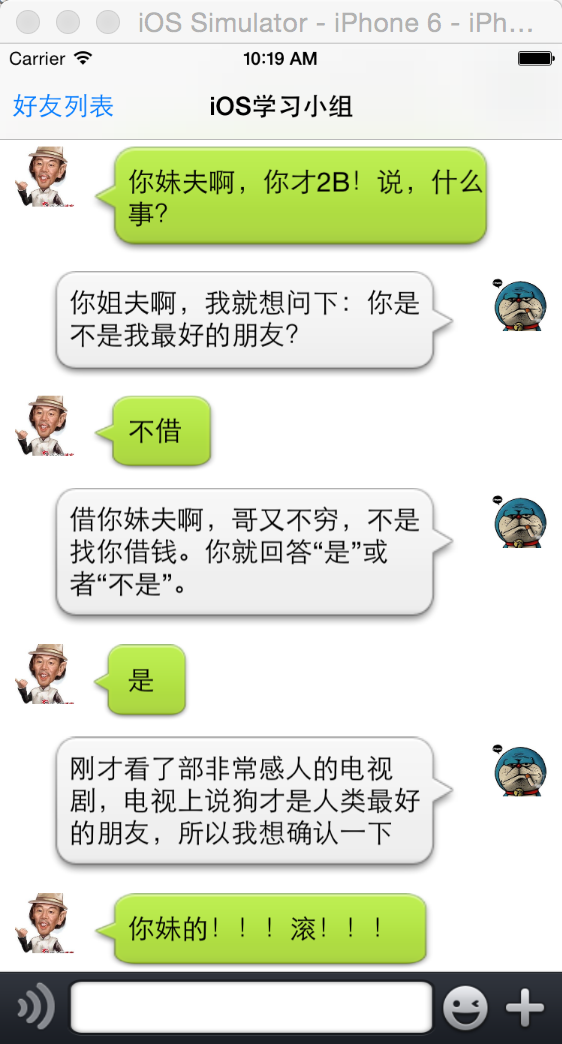
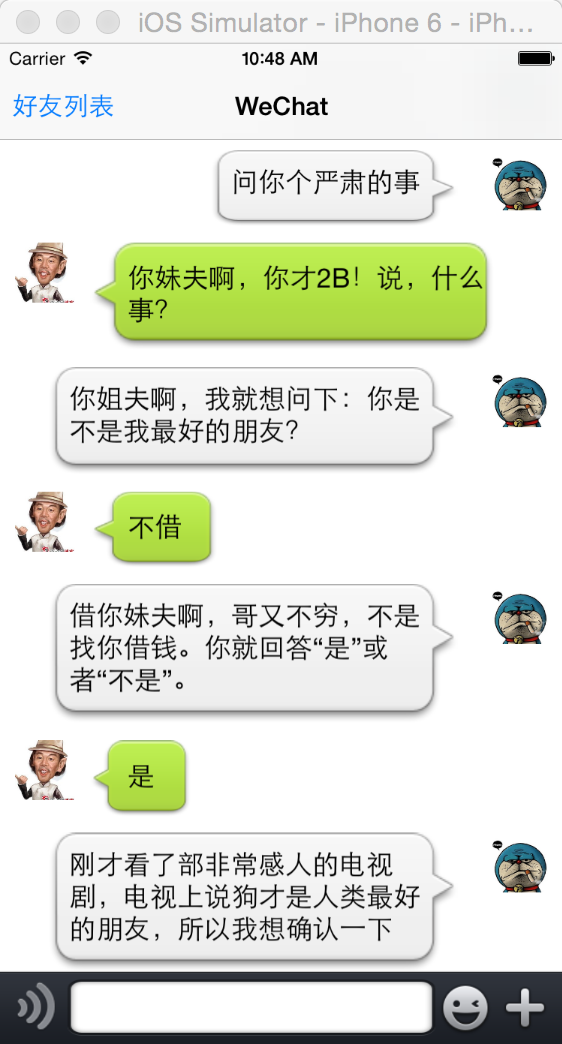
修改了小组名字

diff --git a/微信/微信/ViewController.m b/微信/微信/ViewController.m
@@ -158,7 +158,7 @@
 
 #pragma mark - nav的设置
 - (void)_setNavigation {
-    self.title = @"iOS学习小组";
+    self.title = @"WeChat";
     UIBarButtonItem *item = [[UIBarButtonItem alloc] initWithTitle:@"好友列表" style:UIBarButtonItemStylePlain target:self action:@selector(returnFriendsListAction:)];
     self.navigationItem.leftBarButtonItem = item;
 }
